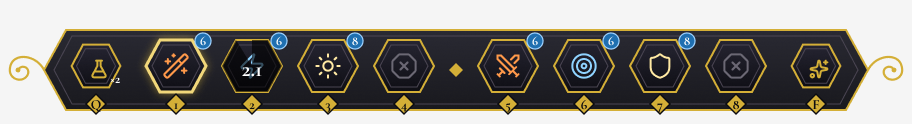
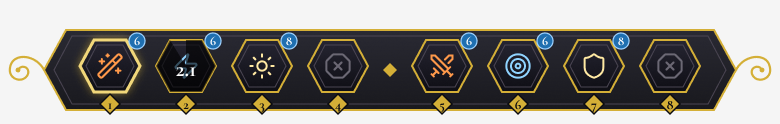
HUD v2: Q and F leave the hotbar for chips under the hero panel (Sapega); hotbar holds the 8 skills only
Claude-Session: https://claude.ai/code/session_01A2gnDWaoeJGbj3GPH4dnCF

diff --git a/design/combat_hud_mapping.md b/design/combat_hud_mapping.md
@@ -92,7 +92,7 @@ production skills, targeting system, controller bindings.
 
 ## HUD v2 hero panel (D453, D476, D485): measured spec, 2026-10-23
 
-**Figma:** component `UI/HUD/HeroPanel v2` `501:6611`, 520 × 162. In-game placement: frame `492:6543`, top left. Shot: `design/shots/figma_hero_panel_v2.png`. The stamina row was added on 2026-10-23 for D537, and the plate grew by 22 px. The 8-slot hotbar v2 (`497:6587`, D549) is specified below and built in the same routine.
+**Figma:** component `UI/HUD/HeroPanel v2` `501:6611`, 520 × 220 (the plate and, under it, the F and Q chips). In-game placement: frame `492:6543`, top left. Shot: `design/shots/figma_hero_panel_v2.png`. The stamina row was added on 2026-10-23 for D537, and the plate grew by 22 px. The 8-slot hotbar v2 (`497:6587`, D549) is specified below and built in the same routine.
 
 **Assets:** all in `SampleProject/Assets/UI/HUD/hero_panel/`.
 
@@ -102,6 +102,7 @@ production skills, targeting system, controller bindings.
 | `portrait_ring.svg` | 104 × 92 | Gold hexagon ring around the portrait |
 | `level_diamond.svg` | 30 × 30 | Gold level badge |
 | `curl.svg` | 44 × 44 | D476 ornament. On the panel's right end it is mirrored: `flip_h`, which is Figma's rotate 180 + flip Y |
+| `chip.svg` | 52 × 46 | Small hexagon for the F and Q chips |
 
 **Layout:** positions are in Figma px from the component's top left. Scale them the way the current vitals panel is scaled (see *Player Vitals Panel*). Fonts follow the in-game font rule (`UITokens.font_px(…, true)`).
 
@@ -118,6 +119,8 @@ production skills, targeting system, controller bindings.
 | ST row | label y 106, bar y 110, h 14 | Fill `UITokens.STAMINA_FILL` (`#E67E22`) |
 | XP row | label y 126, bar y 132, h 8 | Fill accent `#D4AF37` |
 | Curl | (462, 64) 44 × 44 | `curl.svg`, `flip_h` |
+| F chip, the assist | (134, 158) 52 × 46 | `chip.svg` with the next or active companion's portrait, the D525 states (ready, active with the pulse, cooldown dimmed with the seconds) and the refused-press shake. Key badge (the hotbar's `key_badge.svg`) at (149, 198) with "F" |
+| Q chip, potions | (200, 158) 52 × 46 | `chip.svg` with the potion icon. The count sits in a pill at the chip's bottom right, (238, 182) 23 × 20: `#0B0B10` at 90 %, a 1 px `#8A6F22` border, radius 10, text Cormorant Bold 16 `#F1D77A`. Key badge at (215, 198) with "Q" |
 
 **Rows:**
 - Each label is at x 134: Cormorant Bold 16, `#CFC8B0`.
@@ -127,11 +130,11 @@ production skills, targeting system, controller bindings.
 - HP, SP and ST have a 3 px top highlight of white at 25 %. XP has no highlight.
 - Colours go through `UITokens`: reuse the existing tokens, and add one only where none exists.
 
-**Not in this panel:** the potion line ("Q Potions ×N", D538). It moves to the Q slot of the hotbar v2 below.
+**The potion and the assist live here** (Sapega, 2026-10-23: «QF прибери з панелі», meaning out of the hotbar). The old "Q Potions ×N" text line (D538) becomes the Q chip, and the assist slot leaves the hotbar for the F chip.
 
 ## HUD v2 hotbar, 8 slots (D453, D476, D549): measured spec, 2026-10-23
 
-**Figma:** component `UI/HUD/Hotbar v2` `497:6587`, 912 × 124, at the bottom centre. It was redrawn from 4 slots to 8 on 2026-10-23.
+**Figma:** component `UI/HUD/Hotbar v2` `497:6587`, 780 × 124, at the bottom centre. It was redrawn from 4 slots to 8 on 2026-10-23 and holds only the 8 skills; the Q and F chips are on the hero panel.
 - Shot: `design/shots/figma_hotbar_v2_8.png`.
 - The glow of a ready slot: `design/shots/figma_hotbar_slot_ready_2x.png`.
 
@@ -139,14 +142,13 @@ production skills, targeting system, controller bindings.
 
 | File | Size | What it is |
 |---|---|---|
-| `plate.svg` | 832 × 96 | The plate |
+| `plate.svg` | 700 × 96 | The plate |
 | `slot.svg` | 64 × 56 | Skill slot hexagon |
 | `slot_ready.svg` | 83 × 75 | Gold ring of a ready slot, including the glow margin. The SVG filter is stripped (Godot drops it), so the soft gold glow is made in the engine, matching the reference shot |
 | `cooldown.svg` | 64 × 56 | Dark overlay |
 | `sp_gem.svg` | 18 × 18 | Badge for the SP cost |
 | `key_badge.svg` | 22 × 22 | Gold diamond under each slot |
 | `centre_diamond.svg` | 16 × 16 | Divider between the two groups |
-| `slot_small.svg` | 52 × 46 | The Q and F slots |
 
 The curls are `../hero_panel/curl.svg`: the left one as drawn, the right one mirrored.
 
@@ -154,13 +156,11 @@ The curls are `../hero_panel/curl.svg`: the left one as drawn, the right one mir
 
 | Element | Position, size |
 |---|---|
-| Plate | (40, 22) 832 × 96 |
-| Q, potion slot | (70, 43) 52 × 46. A 30 × 30 icon, centred. The count "×N" sits at the bottom right: Cormorant Bold 13, white. Key badge at (85, 93) with "Q" |
-| Skill slots 1–4 | x 144, 220, 296, 372; y 38; 64 × 56 each |
-| Centre diamond | (448, 62) 16 × 16 |
-| Skill slots 5–8 | x 476, 552, 628, 704; y 38 |
-| F, assist slot | (790, 43) 52 × 46. It shows the companion's portrait and the three D525 states: ready, active with the pulse, cooldown |
-| Curls | Left at (2, 48), 44 × 44. Right mirrored, with its right edge at x 910 |
+| Plate | (40, 22) 700 × 96 |
+| Skill slots 1–4 | x 78, 154, 230, 306; y 38; 64 × 56 each |
+| Centre diamond | (382, 62) 16 × 16 |
+| Skill slots 5–8 | x 410, 486, 562, 638; y 38 |
+| Curls | Left at (2, 48), 44 × 44. Right mirrored, with its right edge at x 778 |
 
 **Inside each skill slot:**
 - **Icon:** 28 × 28 at (+18, +14). The D550 painted icon once it exists; until then, today's icon.
@@ -177,4 +177,4 @@ The curls are `../hero_panel/curl.svg`: the left one as drawn, the right one mir
 
 **Behaviour:** everything `skill_hotbar.gd` does today stays. `SkillManager.SLOT_COUNT` goes from 4 to 8.
 
-**Potion:** the D538 quick slot moves here, out of the hero panel.
+**Not here:** the potion (Q) and the assist (F). They are chips under the hero panel.

diff --git a/design/figma_decision_register.md b/design/figma_decision_register.md
@@ -703,5 +703,5 @@ The end screen is drawn in Figma first (#54's "demo end screen", Claude draws). 
 | D546 | OVERRIDE of part of D314 (`cloud/world-fixes`) | **One gate, and the road over its feet.** In CityGates, `GatePassage` now comes before `Terrain` in the scene tree, so the road draws over the feet of the towers. The hero still draws in front of every gate layer (z 1 over 0 / −1). The City's own `GatePassage` instance at (−407, 127) is removed. It was the gate standing behind the market awnings in Sapega's shot («ворота наче тут не мають бути»): the hero has just walked through the same gate in CityGates. The room change still happens inside the CityGates passage. The removed gate carried the City's only banners (D392, checked by `verify_living_world`), so two existing `Decor/banner.tscn` instances now hang in a new `City/Decor`: one on the Forge chimney (1060, 215) and one on the Chapel wall (1560, 230). The other outdoor rooms already had their buildings under `Terrain`, so nothing changed there. `verify_city_gates_raid` [8] asserts the new order and that the City has no gate. Agent call: the choice of *which* gate is mine, so Sapega should confirm. |
 | D547 | GAP (`cloud/world-fixes`) | **How D483 is built.** Each outdoor room (Village, Canyon, DesertRoad, CityGates, City, LaboratoryOutside) has `metadata/camera_floor_y = 384` on its root. After `adjust_camera_limits`, `Game._raise_camera_bottom()` sets `limit_bottom = floor + 15 % of the view height` (456 at 480 units) and lowers `limit_top` so that one full view fits (−24). The floor then sits at 85 % of the screen. In the 2-cell-high rooms (Village, Canyon, Laboratory Outside) the camera used to follow the hero down and showed about 45 % ground. Now it shows 15 %. Both desert backdrops have a new `Plan5/SkyTop` strip (the top 4 px row of the sky, stretched to 96 units above y 0), so the view above the room shows sky with no blank. The Canyon exit cut-scene sets the bottom limit back to the room's full height before the climb down, so the hero stays in view below the floor. Indoor rooms have no metadata and keep the MetSys cell limits: they have no backdrop above their top edge, so raising their camera would show blank. That needs art or a separate call. |
 | D548 | GAP (`cloud/world-fixes`) | **The D446 sparkle.** `Assets/World/pickup_sparkle.svg`: four 11 × 11 pixel frames (a dot, a cross, a peak with a long 4-point cross, a fading ring) in ACCENT gold `#D4AF37`, warm white `#FFF8E0` and a dark gold. The scale is ×3 (two pixels of the hero's ×1.5). At ×1.5 it was too faint to notice in a full frame. The `glint` animation in the scene loops every 1.6 s and mostly rests on the dot. `ItemPickup.gd` no longer sets the item icon. An unknown `item_id` still disables the pickup. |
-| D549 | OVERRIDE | **The hotbar has 8 skill slots** (Sapega, 2026-10-23: «Панель з 8 скілів окей»; answers Q86). Keys 1–8. On the gamepad: two sets of four behind the left and right triggers (provisional). The Figma hotbar `497:6587` (4 hex slots, D453) is redrawn to 8 by Claude before it is built. The potion quick slot (D538) moves from the hero panel to the hotbar. With 10 actives a tab (D535), the hero still chooses which of them to put on the bar. |
+| D549 | OVERRIDE | **The hotbar has 8 skill slots** (Sapega, 2026-10-23: «Панель з 8 скілів окей»; answers Q86). Keys 1–8. On the gamepad: two sets of four behind the left and right triggers (provisional). The Figma hotbar `497:6587` (4 hex slots, D453) is redrawn to 8 by Claude before it is built. With 10 actives a tab (D535), the hero still chooses which of them to put on the bar. The bar holds only the 8 skills: the potion (Q) and the assist (F) are chips under the hero panel (Sapega, the same day: «QF прибери з панелі»). |
 | D550 | OVERRIDE | **Every skill has a beautiful, recognisable icon** (Sapega, 2026-10-23: «іконки скілів мають бути, і вони мають бути дуже красивими; це можуть бути маленькі малюночки, але вони мають бути впізнаваними»). All 76 skills (D535) get an icon: a small painted picture in the game's style with one clear subject per skill (the spear, the hammer, the chain, the flask), readable at hotbar size, with the tree's colour as the accent (Holy Warrior gold, Paladin white-gold, Dark Knight crimson-violet, Warden sand-teal). Made in ComfyUI (D455). A candidate sheet of a few skills in two or three looks goes to Sapega first, then the full batch. Actives and passives share the look, and a passive gets a round frame (Dragon Nest / WoW convention: square active, round passive). |
